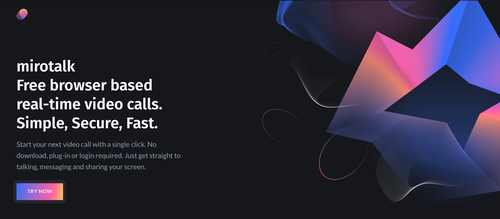
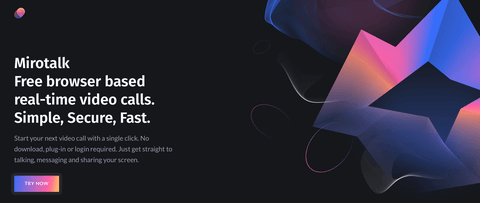
[mirotalk] - update readme & images

diff --git a/README.md b/README.md
@@ -1,4 +1,4 @@
-# mirotalk
+# Mirotalk
 
 🚀 `A free WebRTC browser-based video call, chat and screen sharing` 🚀
 
@@ -14,7 +14,7 @@
 [![Gitter](https://badges.gitter.im/mirotalk/community.svg)](https://gitter.im/mirotalk/community?utm_source=badge&utm_medium=badge&utm_campaign=pr-badge)
 [![Discord](https://img.shields.io/badge/chat-discord-green)](https://discord.gg/c5AZn8yKbQ)
 
-Powered by `WebRTC` using google Stun and [numb](http://numb.viagenie.ca/) Turn. `mirotalk` provides video quality and latency not available with traditional technology.
+Powered by `WebRTC` using google Stun and [numb](http://numb.viagenie.ca/) Turn. `Mirotalk` provides video quality and latency not available with traditional technology.
 
 Open the app in one of following **supported browser**
 
